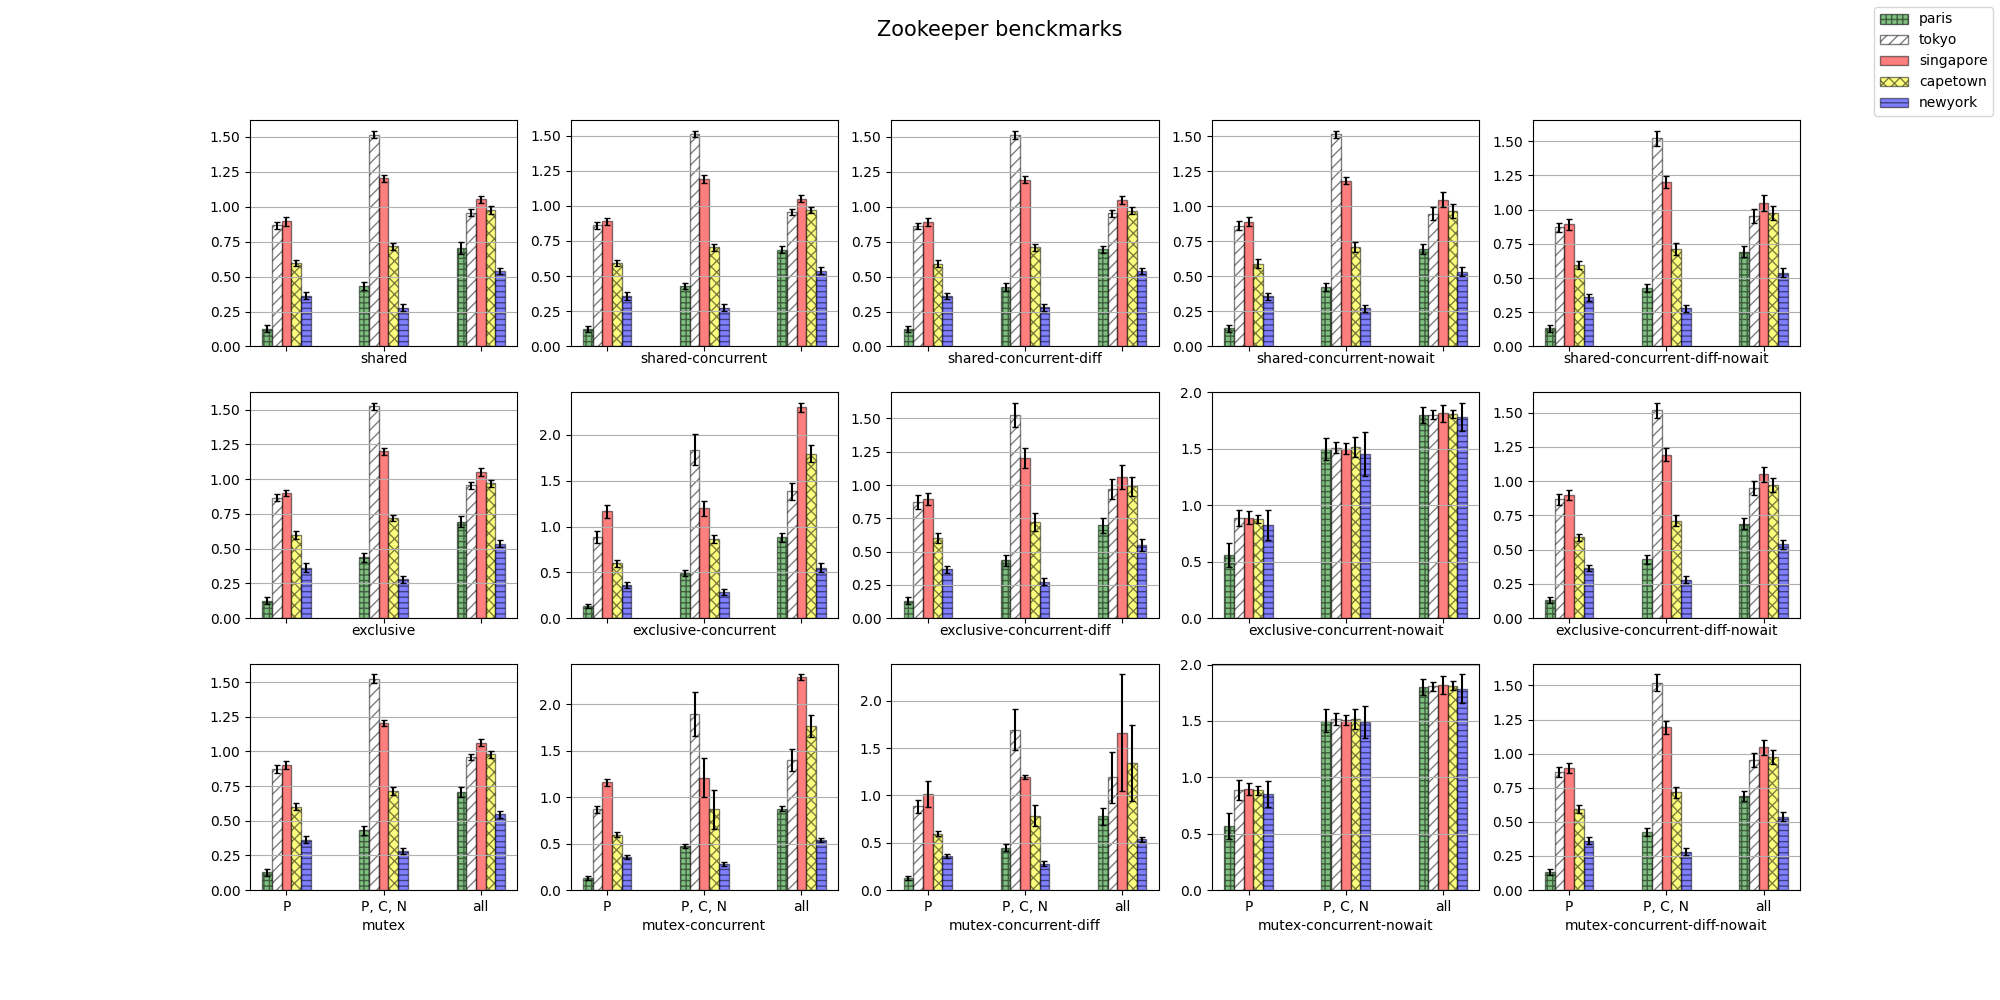
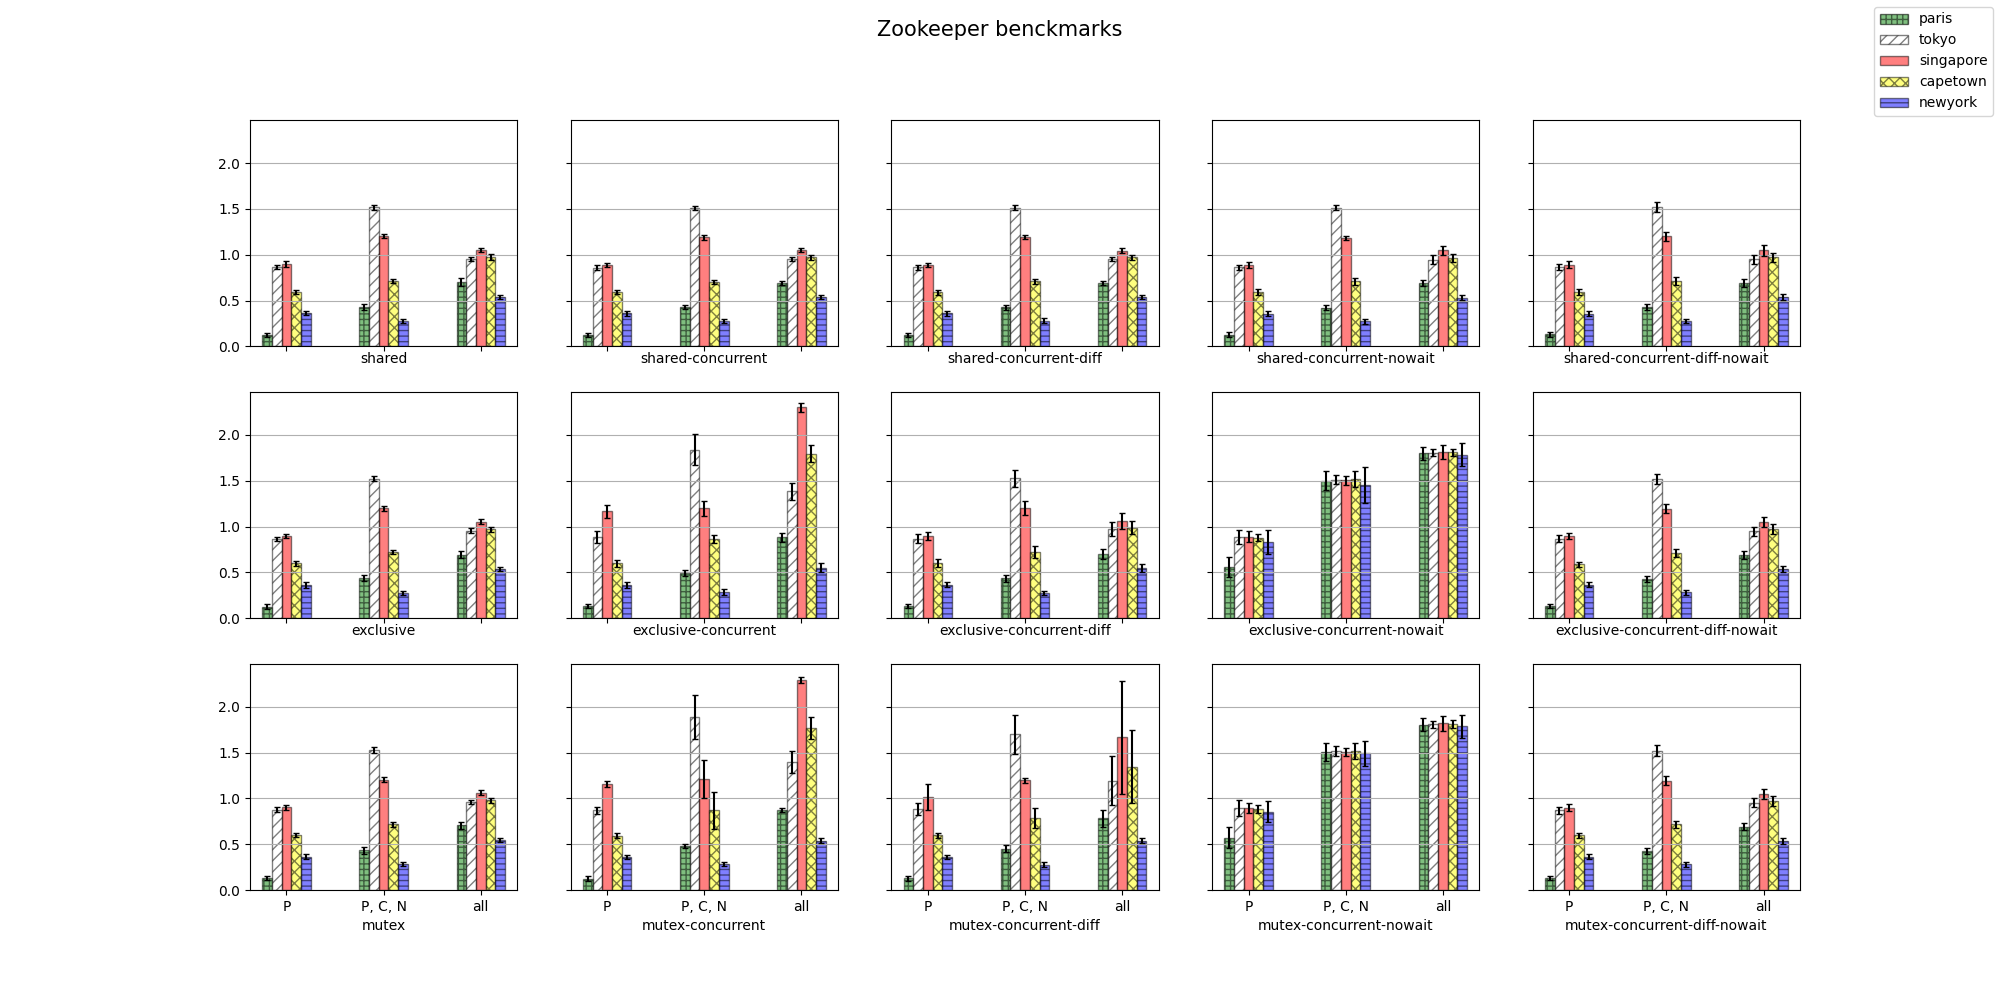
same y axis

diff --git a/zoo-benchmark/scripts/zoo-mark.py b/zoo-benchmark/scripts/zoo-mark.py
@@ -3,7 +3,7 @@ import numpy as np
 import matplotlib.pyplot as plt
 
 
-fig, ax = plt.subplots(nrows=3, ncols=5, figsize=(20,10), sharex=True, sharey=False)
+fig, ax = plt.subplots(nrows=3, ncols=5, figsize=(20,10), sharex=True, sharey=True)
 
 # Set the title for the figure
 fig.suptitle('Zookeeper benckmarks', fontsize=15)
@@ -57,5 +57,5 @@ for mode in ['shared', 'exclusive', 'mutex']:
 
 fig.legend((bar0[0], bar1[0], bar2[0], bar3[0], bar4[0]), ('paris', 'tokyo', 'singapore', 'capetown', 'newyork'), loc = 'upper right', ncol=1)
 
-plt.savefig('zoo-benchmark.png')
+plt.savefig('zoo-benchmark-5.png')
 plt.show()
